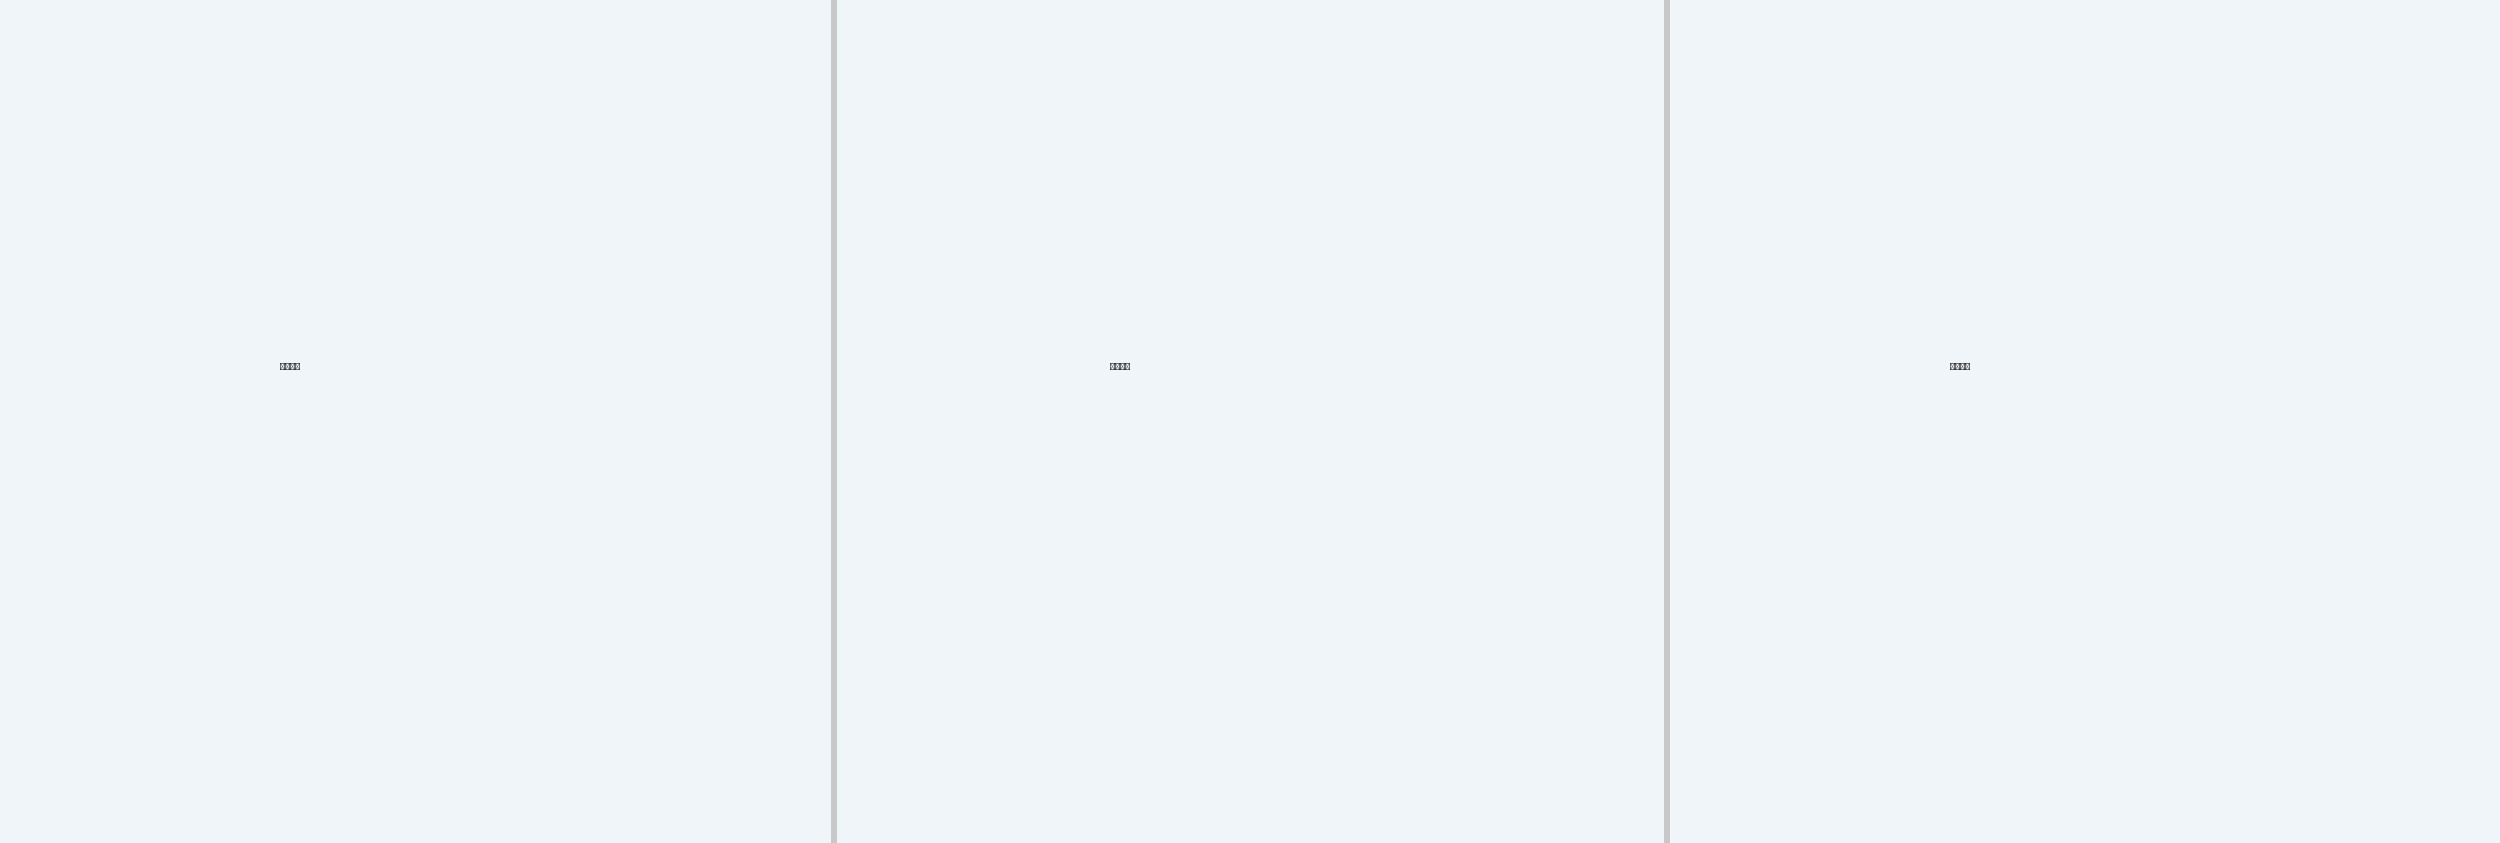
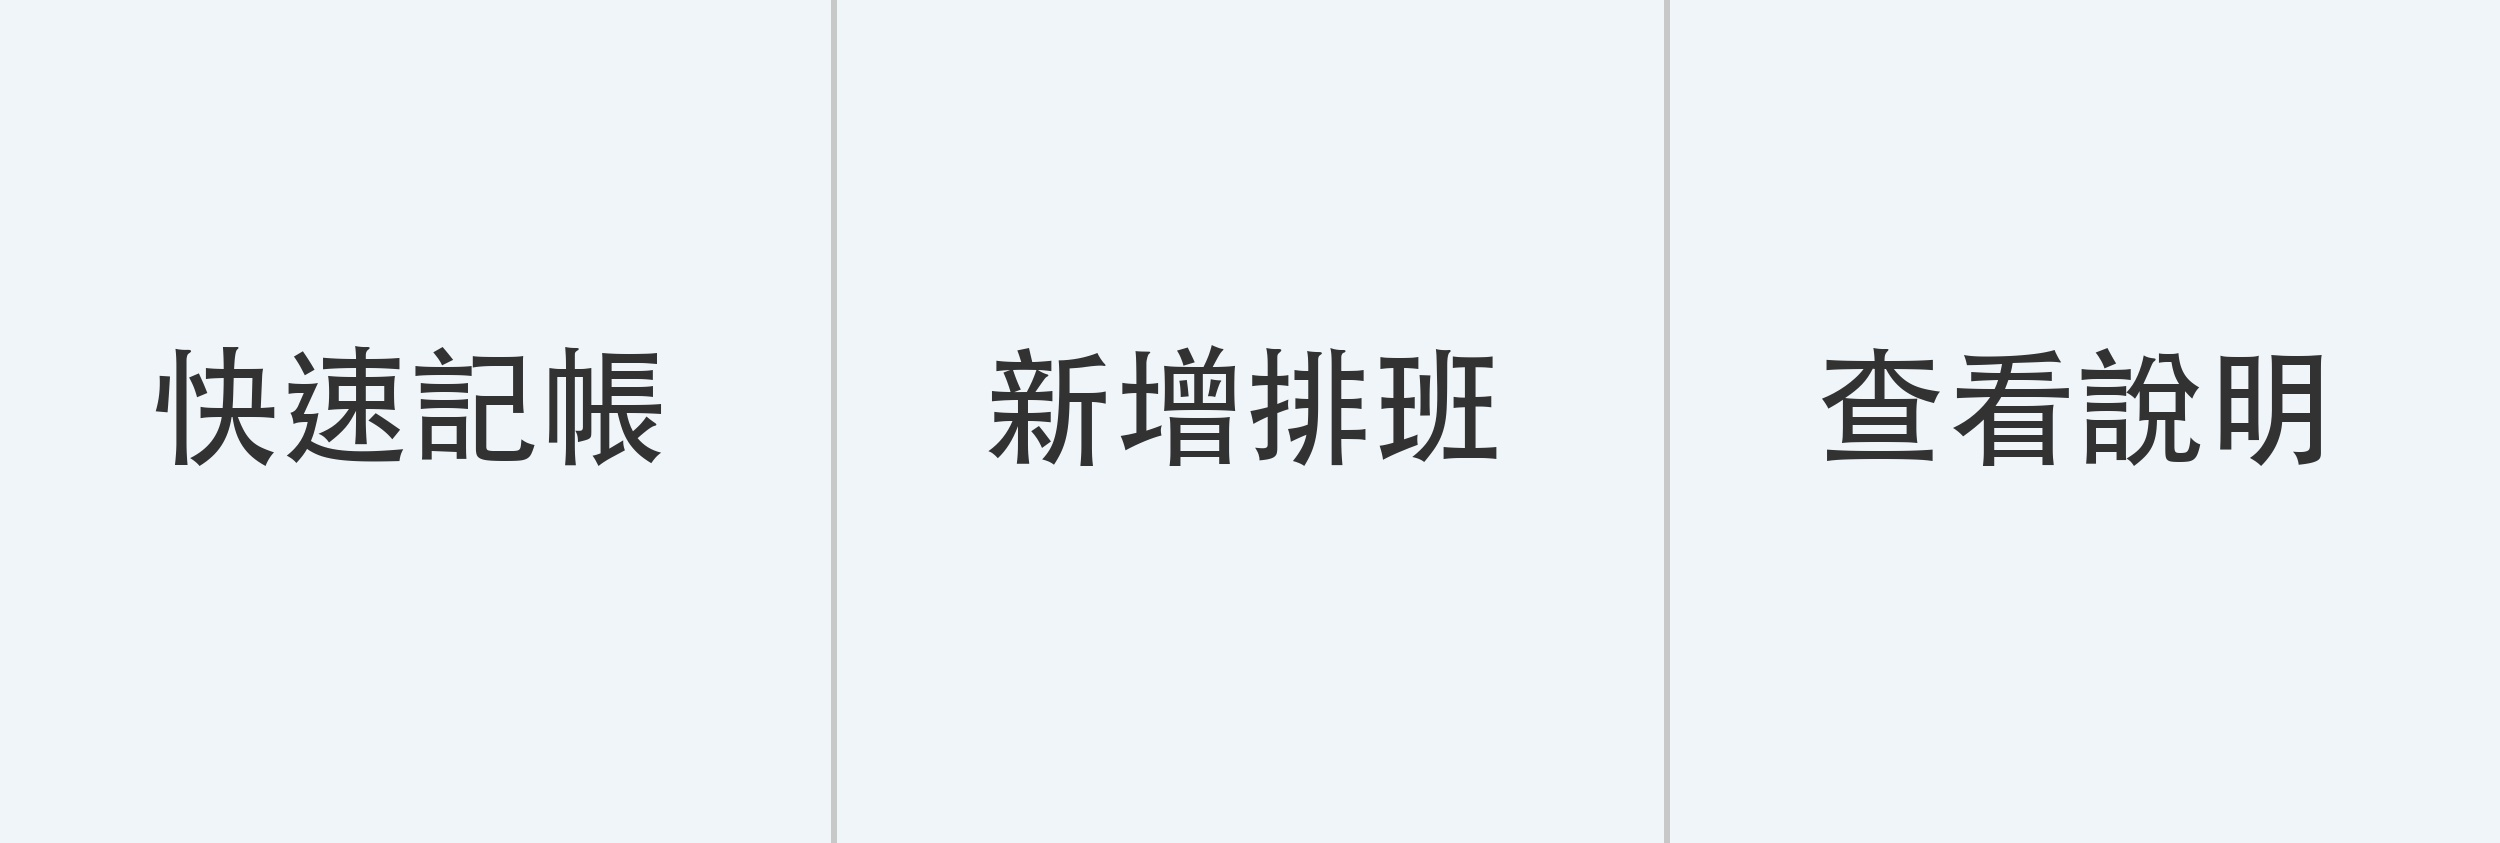
fix: adjust rich menu font and text position

Changed region(s): [[0.7176, 0.4009, 0.936, 0.5552], [0.0624, 0.4009, 0.2808, 0.5552], [0.3744, 0.4009, 0.5928, 0.5552]]

diff --git a/scripts/setup_rich_menu.py b/scripts/setup_rich_menu.py
@@ -18,16 +18,19 @@ def create_rich_menu_image(filename="rich_menu.jpg"):
     draw.line([(833, 0), (833, 843)], fill=(200, 200, 200), width=6)
     draw.line([(1666, 0), (1666, 843)], fill=(200, 200, 200), width=6)
     
-    # 字體 (macOS 內建 PingFang)
+    # 字體
     try:
-        font = ImageFont.truetype("/System/Library/Fonts/PingFang.ttc", 100)
+        font = ImageFont.truetype("/System/Library/Fonts/STHeiti Medium.ttc", 130)
     except:
-        font = ImageFont.load_default()
-        
-    # 文字
-    draw.text((280, 360), "快速記帳", fill=(50, 50, 50), font=font)
-    draw.text((1110, 360), "新增排班", fill=(50, 50, 50), font=font)
-    draw.text((1950, 360), "查看說明", fill=(50, 50, 50), font=font)
+        try:
+            font = ImageFont.truetype("/System/Library/Fonts/Supplemental/Arial Unicode.ttf", 130)
+        except:
+            font = ImageFont.load_default()
+            
+    # 文字置中 (每格寬度 833，文字大概寬 520)
+    draw.text((150, 340), "快速記帳", fill=(50, 50, 50), font=font)
+    draw.text((983, 340), "新增排班", fill=(50, 50, 50), font=font)
+    draw.text((1816, 340), "查看說明", fill=(50, 50, 50), font=font)
     
     filepath = os.path.join(current_dir, filename)
     img.save(filepath, quality=95)
